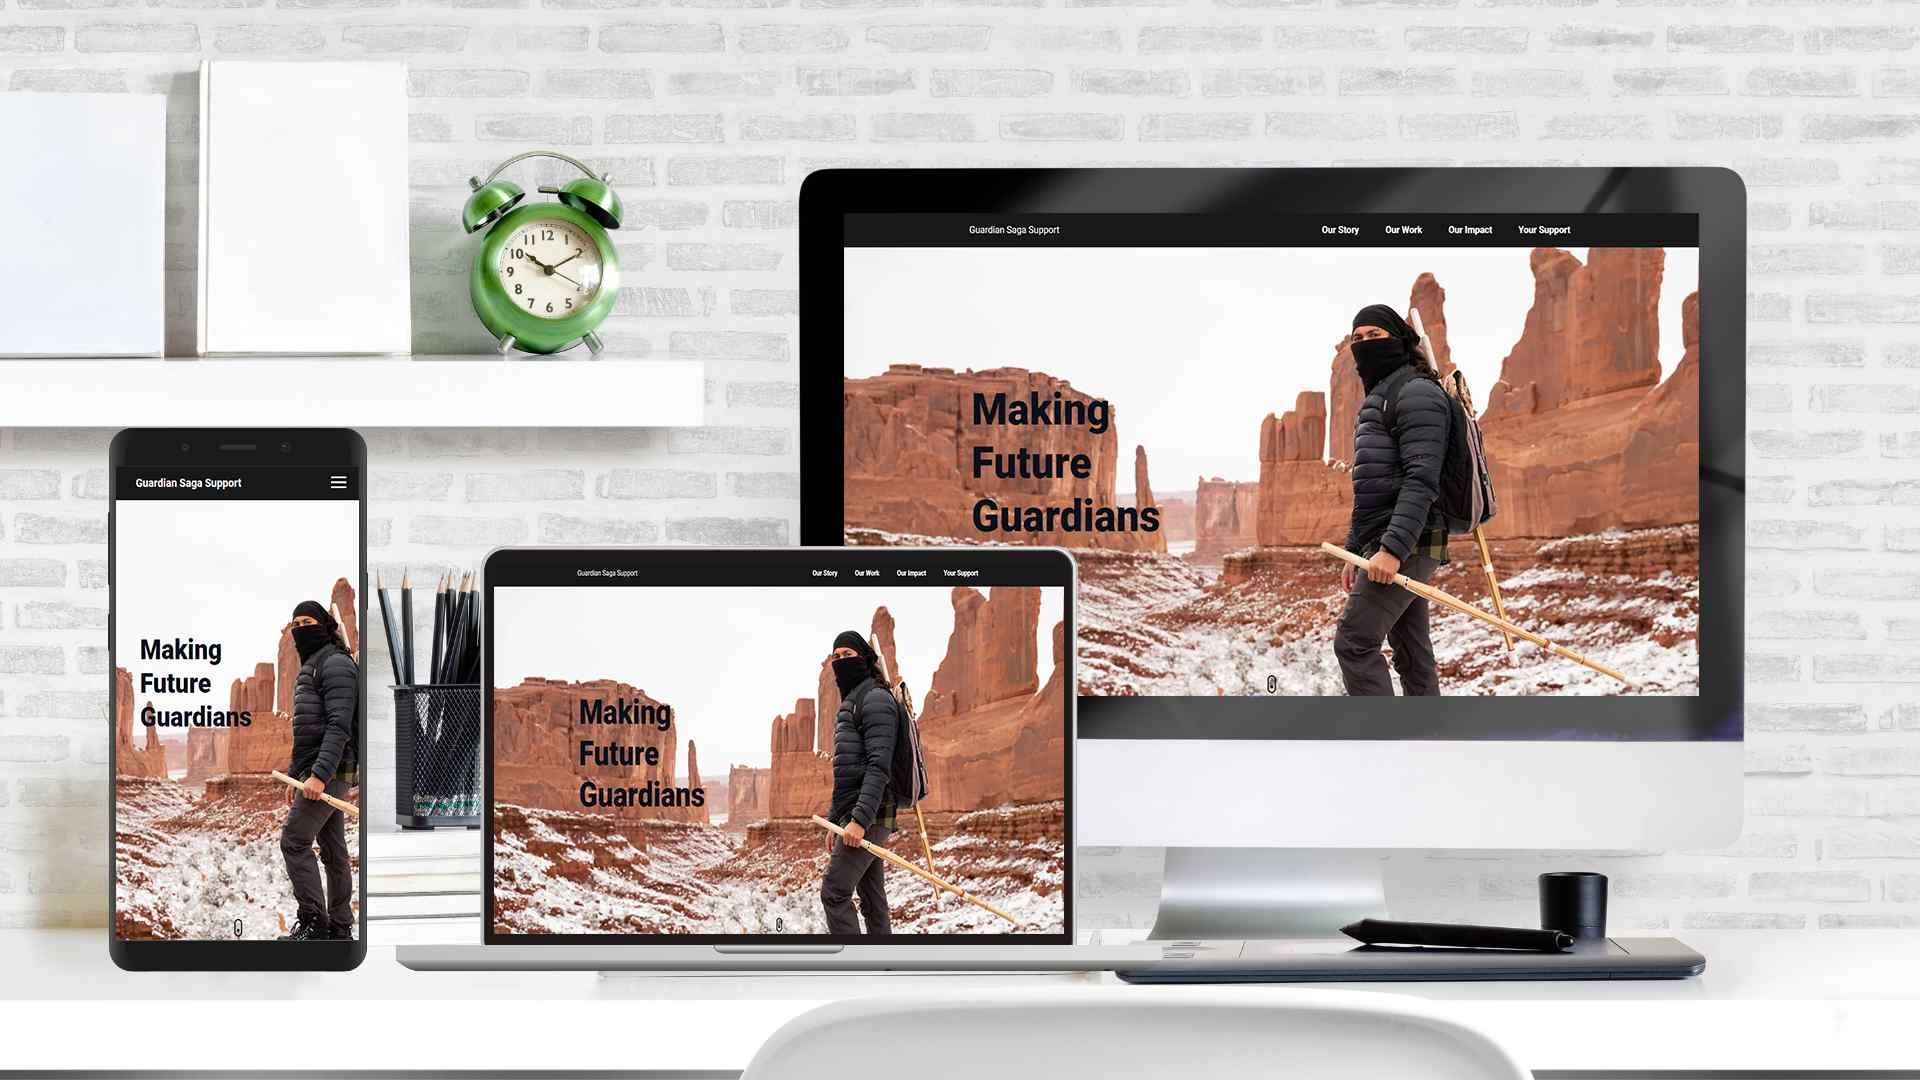
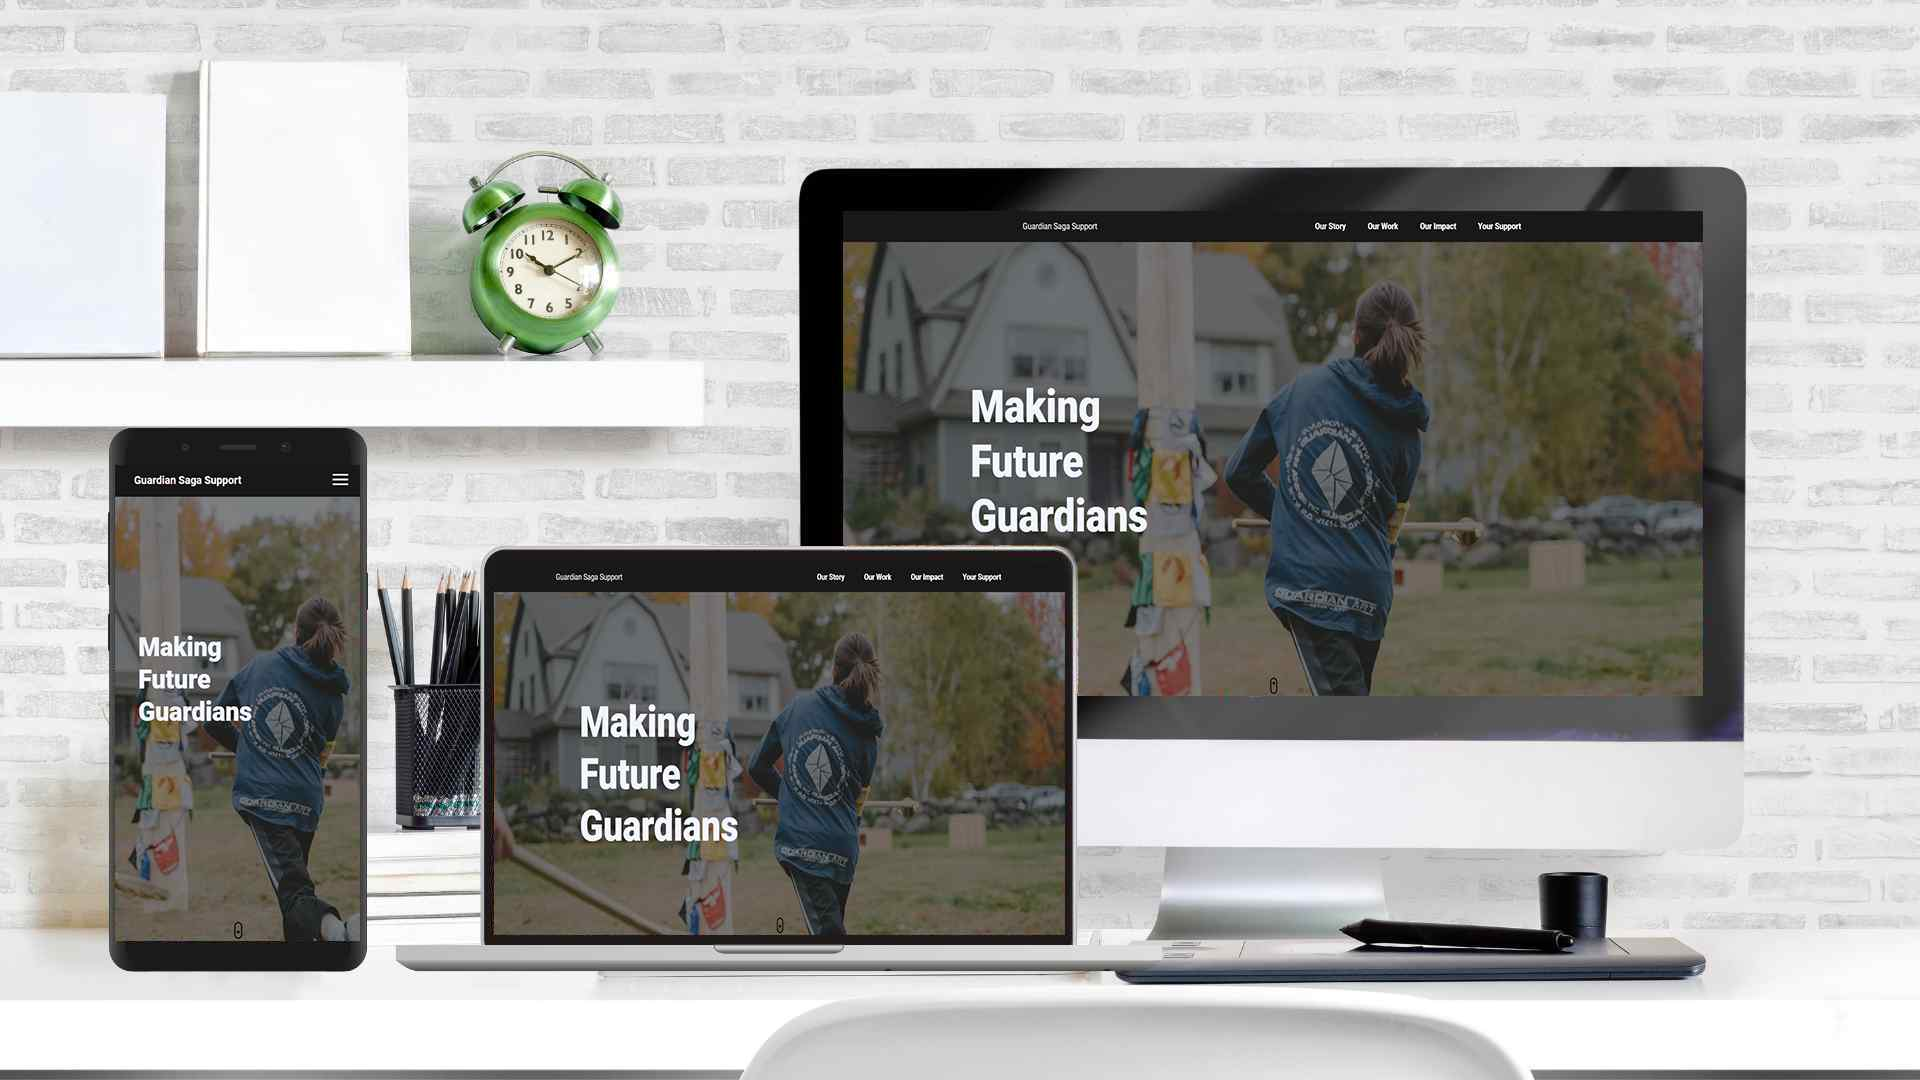
updated background image for guardian saga support

diff --git a/index.html b/index.html
@@ -66,7 +66,7 @@
           <h1 class="title">Hey</h1>
           <h1 class="title orange">I'm James.</h1>
           <p class="header__para">
-            Im a <b class="orange">Frontend Developer</b> with a strong passion for creating beautiful web applications that provide a great user experience.
+            I'm a <b class="orange">Frontend Developer</b> with a strong passion for creating beautiful web applications that provide a great user experience.
             <br />
             Here's a bit more
             <b class="orange click" onclick="toggleModal()">about me</b>.
